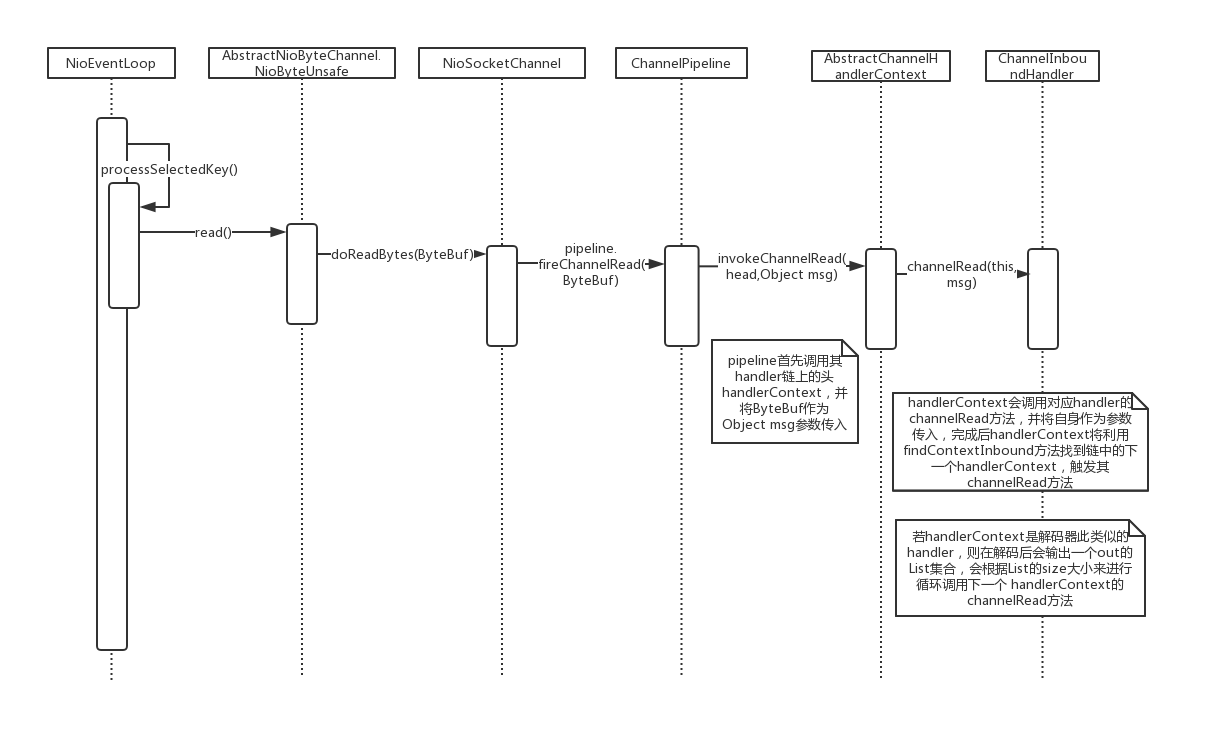
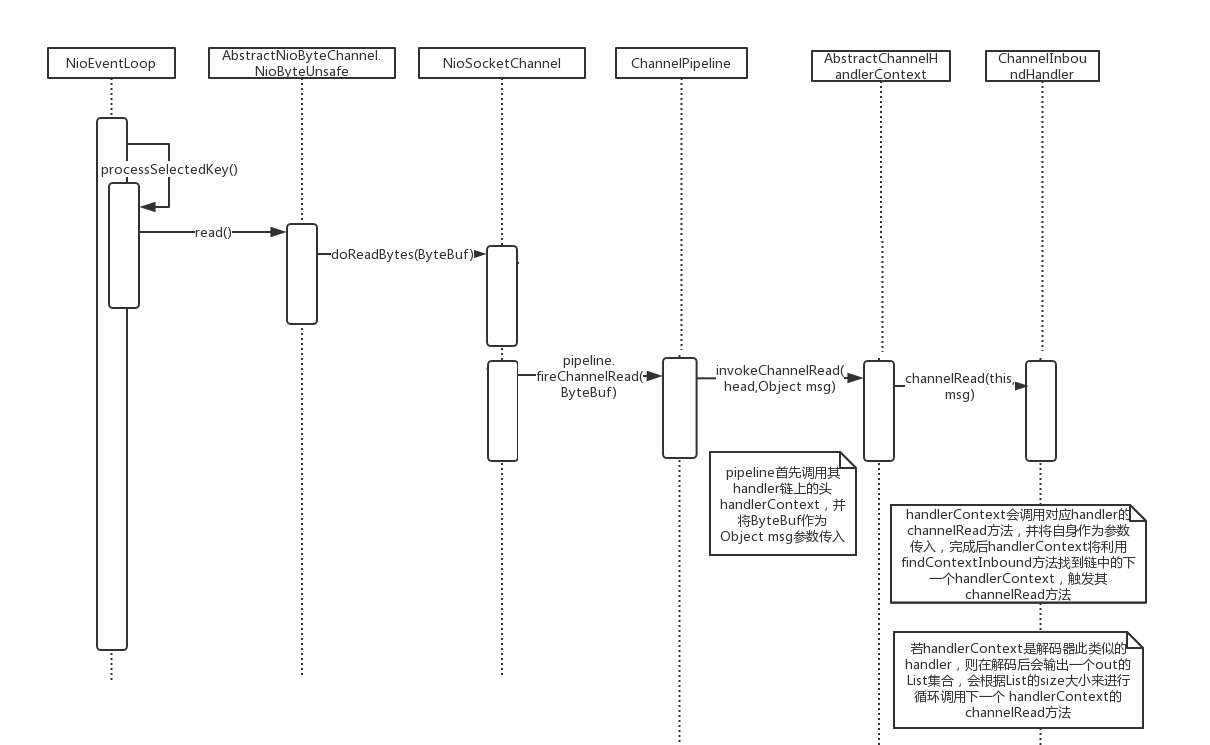
6

Changed region(s): [[0.3975, 0.3087, 0.9479, 0.9879], [0.8562, 0.4631, 0.8868, 0.494]]

diff --git a/netty_nio/netty.md b/netty_nio/netty.md
@@ -1,3 +1,5 @@
+netty源码分析参考：[https://segmentfault.com/a/1190000007403873](netty源码分析参考)
+
 [TOC]
 
 channel在注册到EventLoop上（具体就是注册到对应的selector上）时，会触发handler的channelRegistered()方法，在其中会对initChannel()方法进行调用。所以，一般都是先将一个ChannelInitializer先加入至channel中，在channel注册时触发initChannel()将其他Handler也加入
@@ -66,6 +68,12 @@ NioEventLoop线程启动的详细过程：
 
 ![](4.jpg)
 
+read()方法主要做的事情：
+
+1. 分配 ByteBuf
+2. 从 SocketChannel 中读取数据，doReadBytes方法
+3. 调用 **pipeline.fireChannelRead** 发送一个 inbound 事件
+
 #### 读半包处理分析
 
 主要在于ByteBuf类型的cumulation变量，在无法按给定的规则进行解码时，本次调用的channelRead()方法中对数据的解码不会成功，所以其List输出列表out将为空，故不会传播至下一个handlerConntext，且会将本次读取到的原始数据加入cumulation变量；至此，NioEventLoop.run()的一次循环完成，下一次循环中，会对cumulation变量继续进行累加，直至达到解码规则的要求；一旦可以解码，其out列表就不为空，就会传播至下一个handlerConntext，并且会将已解码的数据进行释放。
@@ -85,4 +93,76 @@ NioEventLoop线程启动的详细过程：
 过程从write方法开始，其数据流动过程与读数据类似，数据的解码也是在write方法中。与读数据有一点不同的是，大部分地方都需要对返回的ChannelFuture类或者Promise类的参数进行额外处理；还有就是读数据是从HeadContext类开始，若是channel或pipeline调用的write方法，则写数据是从TailContext类开始，但若是直接在handlerContext中调用write方法，就直接从下一个handlerContext开始流动数据。而且ChannelOutboundHandler链的最后一个必定是HeadContext，故真正的向channel中写入字节数据是在HeadContext类中完成的
 
 ![](7.jpg)
+
+每个写入的消息在ChannelOutboundBuffer内部都会被封装成一个Entry对象。在write()方法调用时，会调用addMessage()方法，加入的消息就是unflushed的Entry，即不会被发送出去的消息。只有在调用flush()方法后，addFlush()方法会将当前链表中所有unflushed的消息变成flushed，即会被发送出去。`unflushedEntry`指针表示unflush消息的头节点：
+
+![](8.jpg)
+
+#### 写半包处理分析
+
+```java
+ByteBuffer nioBuffer = nioBuffers[0];
+for (int i = config().getWriteSpinCount() - 1; i >= 0; i --) {
+    final int localWrittenBytes = ch.write(nioBuffer);
+    if (localWrittenBytes == 0) {
+        setOpWrite = true;
+        break;
+    }
+    expectedWrittenBytes -= localWrittenBytes;
+    writtenBytes += localWrittenBytes;
+    if (expectedWrittenBytes == 0) {
+        done = true;
+        break;
+    }
+}
+```
+
+```java
+in.removeBytes(writtenBytes);
+
+if (!done) {
+    // Did not write all buffers completely.
+    incompleteWrite(setOpWrite);
+    break;
+}
+```
+
+每次的doWrite()内部会计算实际发送出去的数据大小，若与期望的数据大小不一致时（即可能某次发送没有成功），会调用incompleteWrite方法，该方法将一个flush()的task加入任务队列，该任务会调用flush刷新数据，并再一次的触发doWrite()方法，尝试将数据写出去
+
+#### NioEventLoop详细分析
+
+通过反射，Netty将原nio包下的selector类中的selectedKeys域设置成了自定义的`SelectedSelectionKeySet`类型的`Set<SelectionKey>`集合，SelectedSelectionKeySet带有自动扩容机制（类似HashMap的双倍扩容机制），使其处理更高效
+
+##### NioEventLoopGroup 实例化过程
+
+- EventLoopGroup(其实是MultithreadEventExecutorGroup) 内部维护一个类型为 EventExecutor children 数组, 其大小是 nThreads, 这样就构成了一个线程池
+- 如果我们在实例化 NioEventLoopGroup 时, 如果指定线程池大小, 则 nThreads 就是指定的值, 反之是处理器核心数 * 2
+- MultithreadEventExecutorGroup 中会调用 newChild 抽象方法来初始化 children 数组
+- 抽象方法 newChild 是在 NioEventLoopGroup 中实现的, 它返回一个 NioEventLoop 实例.
+- NioEventLoop 属性:
+  - SelectorProvider provider 属性: NioEventLoopGroup 构造器中通过 SelectorProvider.provider() 获取一个 SelectorProvider
+  - Selector selector 属性: NioEventLoop 构造器中通过调用通过 selector = provider.openSelector() 获取一个 selector 对象
+
+##### NioEventLoop
+
+主要继承关系：
+
+```java
+NioEventLoop -> SingleThreadEventLoop（实现了任务队列的功能，可向队列中添加task） -> SingleThreadEventExecutor -> AbstractScheduledEventExecutor（实现schedule定时功能）
+```
+
+NioEventLoop 的两种职责（主要在run方法中）：
+
+- 作为 IO 线程, 执行与 Channel 相关的 IO 操作, 包括 调用 select等待就绪的 IO 事件、读写数据与数据的处理等（processSelectedKeys方法）
+- 作为任务队列, 执行 taskQueue 中的任务（runAllTasks 方法）
+
+当 taskQueue 中没有任务时, 那么 Netty 可以阻塞地等待 IO 就绪事件; 而当 taskQueue 中有任务时, Netty 会调用非阻塞的 selectNow() 方法, 以保证 taskQueue 中的任务尽快可以执行
+
+##### 任务队列机制
+
+EventLoop 可以通过调用 EventLoop.execute 来将一个 Runnable 提交到 taskQueue 中, 也可以通过调用 EventLoop.schedule 来提交一个 schedule 任务到 scheduledTaskQueue 中。在runAllTasks方法的一开始调用的 fetchFromScheduledTaskQueue() 其实就是将 scheduledTaskQueue 中已经可以执行的(即定时时间已到的 schedule 任务) 拿出来并添加到 taskQueue 中, 作为可执行的 task 等待被调度执行
+
+#### Netty内存管理分析
+
+参考[https://blog.csdn.net/chengzhang1989/article/details/80424556](netty内存管理源码分析)
 
